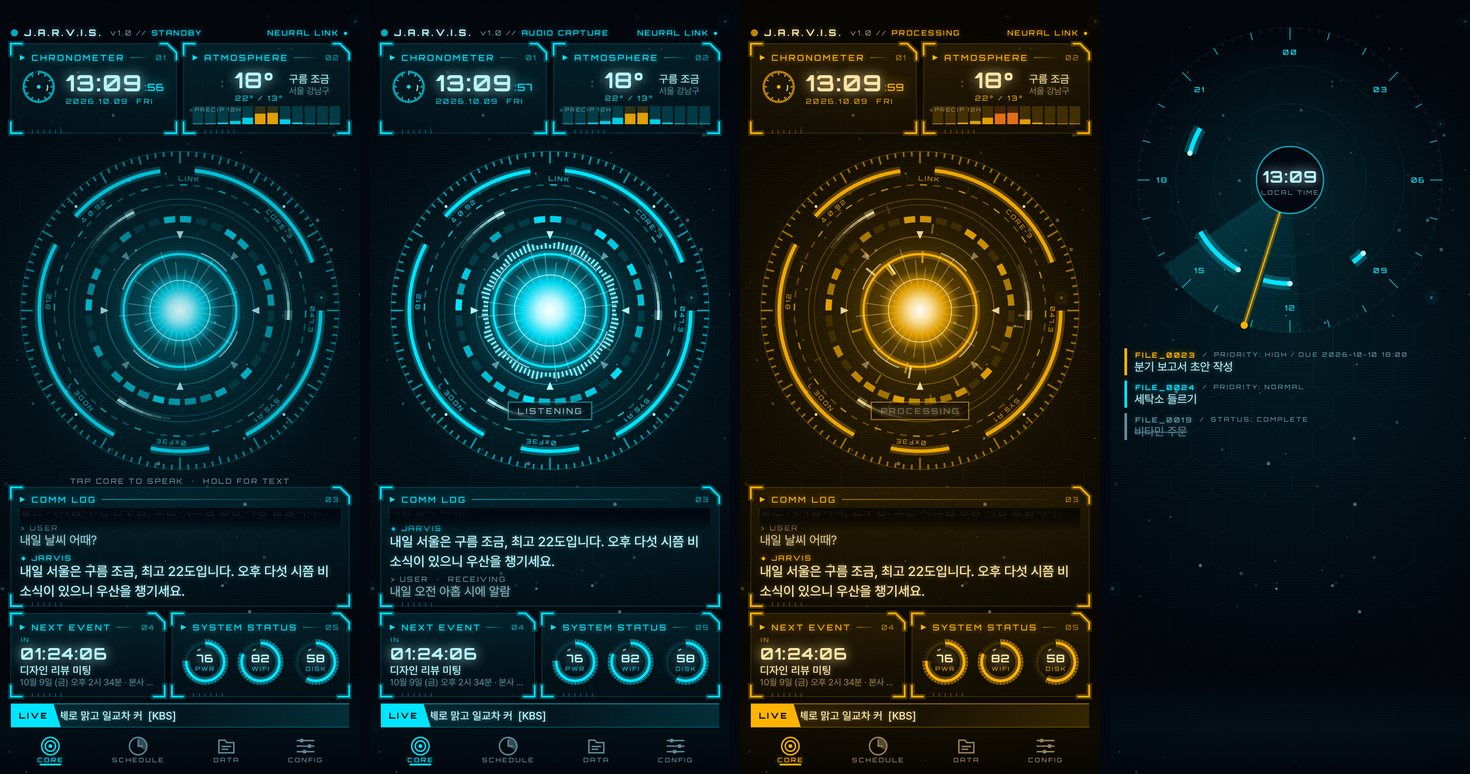
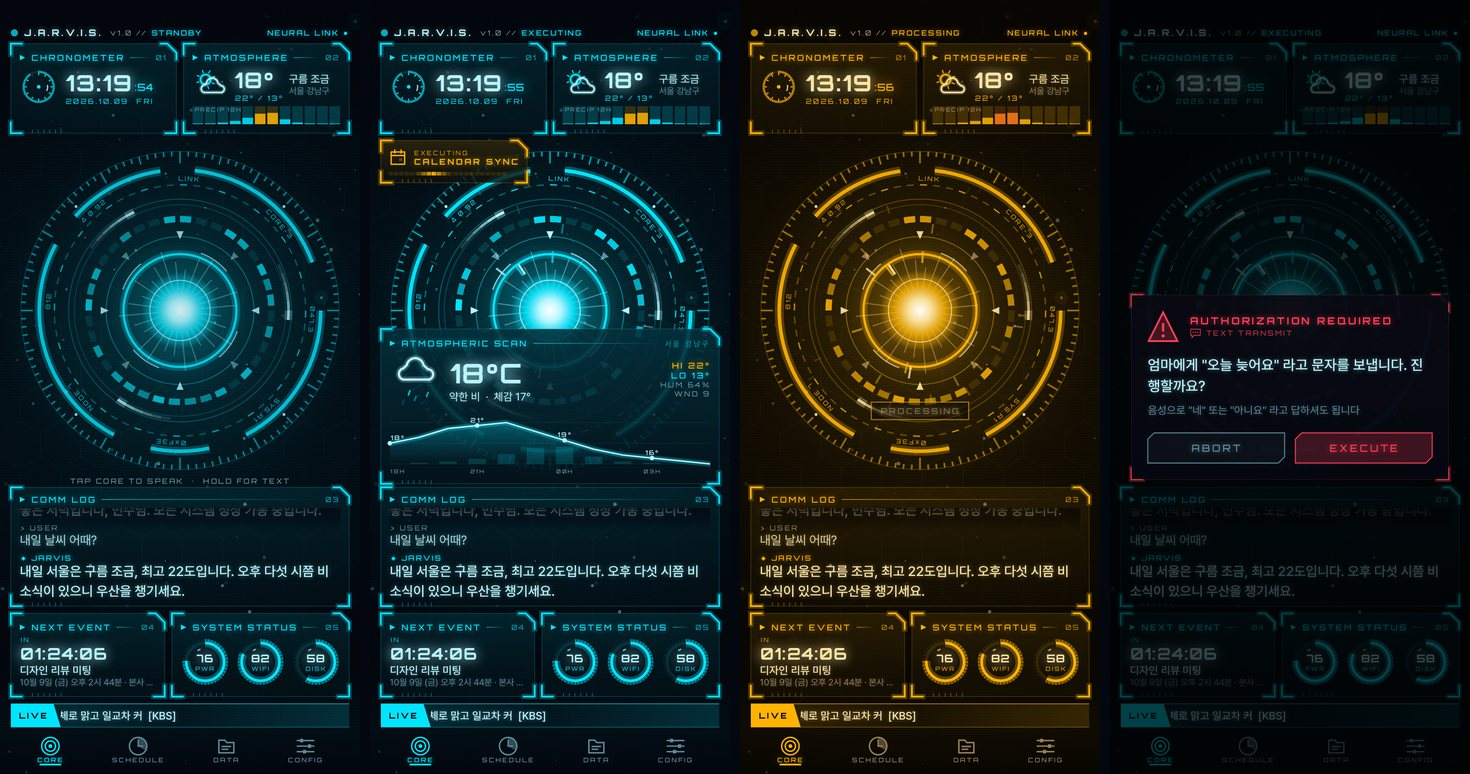
Refresh README HUD preview
Claude-Session: https://claude.ai/code/session_013ozFTLiLn7cTwB7985BYoP

diff --git a/jarvis-android/README.md b/jarvis-android/README.md
@@ -3,7 +3,7 @@
 말로 부르면 한국어로 대화하고, 일정·알람·메모를 관리하고, 날씨·뉴스를 브리핑하고, 폰 기능을 대신 처리하는 비서 앱입니다.
 두뇌는 **Claude API (`claude-sonnet-5-5`) tool use + 스트리밍**, 화면은 전부 Canvas/Compose 로 직접 그린 **홀로그램 HUD** 입니다.
 
-![HUD — 대기 / 듣는 중 / 생각 중(앰버 테마) / 24시간 레이더](docs/hud-preview.jpg)
+![HUD — 대기 / 도구 실행 + 날씨 카드 / 생각 중(앰버 테마) / 위험 작업 확인](docs/hud-preview.jpg)
 
 <sub>CI 의 Robolectric 스크린샷 테스트로 렌더링한 화면</sub>
 
